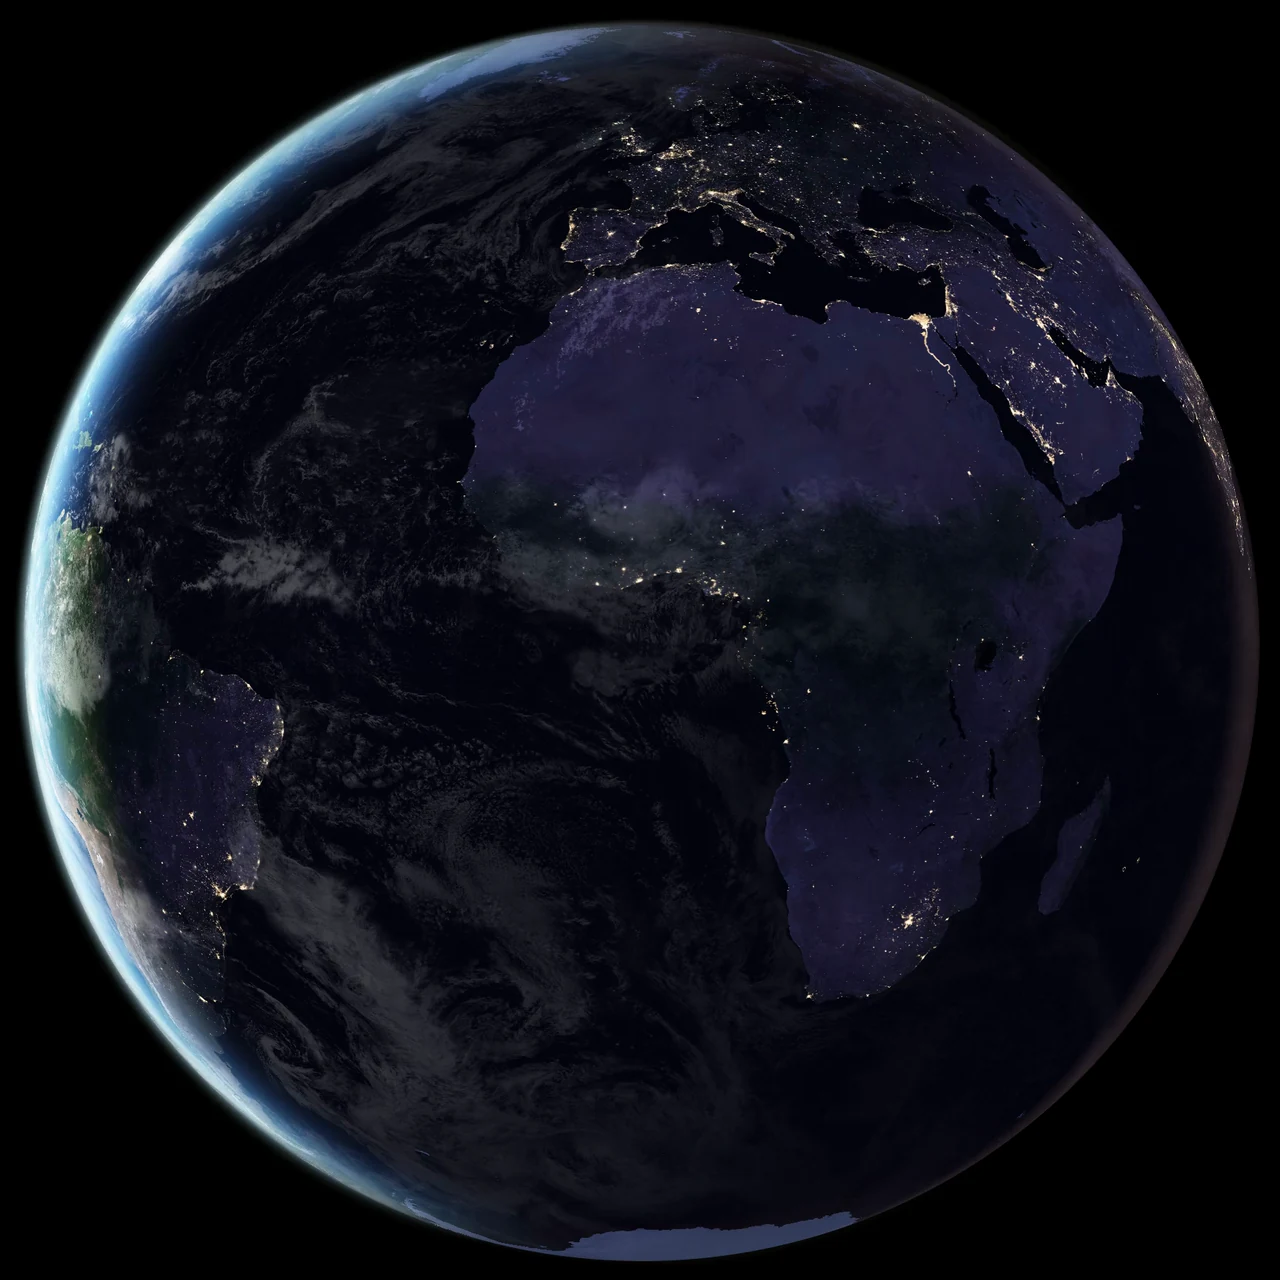
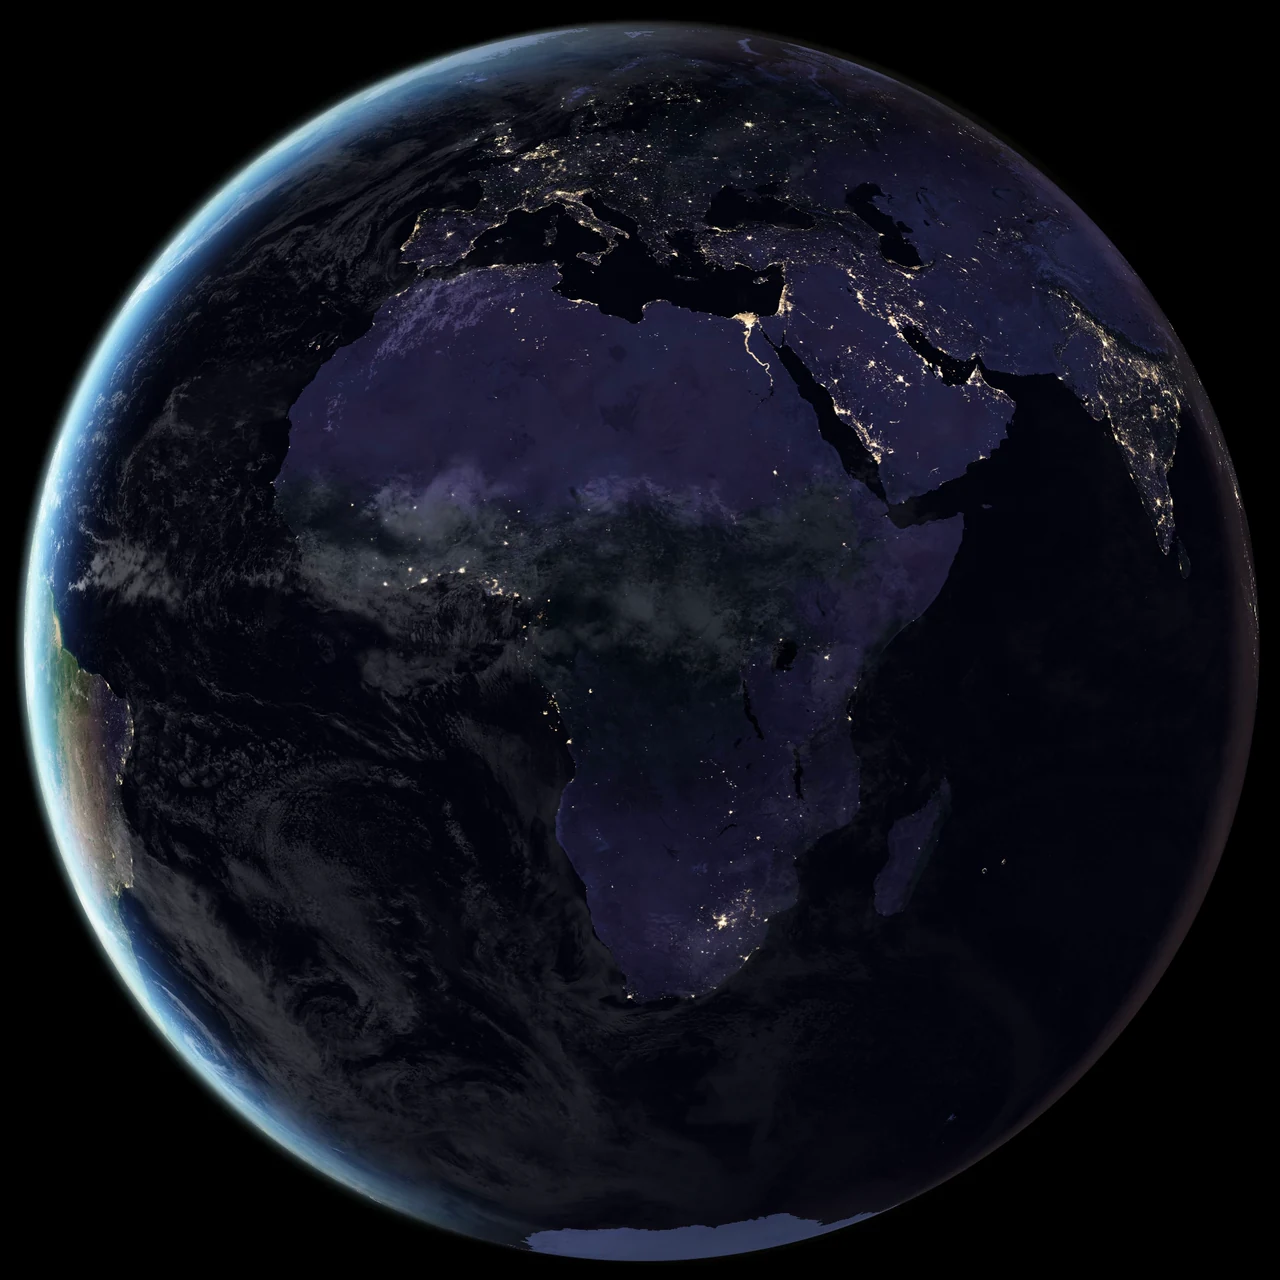
Земля-видео: старт над Украиной/Турцией (136 с ролика), новый постер

diff --git a/script.js b/script.js
@@ -149,9 +149,14 @@ function theme() {
   frame();
 })();
 
-/* ===== Видео Земли: пауза вне экрана и при «уменьшить анимацию» ===== */
+/* ===== Видео Земли: старт над Турцией/Украиной, пауза вне экрана и при «уменьшить анимацию» ===== */
 (function earthVideo() {
   const v = document.querySelector(".earth__video"); if (!v) return;
-  if (matchMedia("(prefers-reduced-motion: reduce)").matches) { v.removeAttribute("autoplay"); v.pause(); return; }
-  new IntersectionObserver(e => { e[0].isIntersecting ? v.play().catch(() => {}) : v.pause(); }).observe(document.querySelector(".hero"));
+  const START = 136;                       // секунда ролика, где в центре Чёрное море и огни Европы
+  if (matchMedia("(prefers-reduced-motion: reduce)").matches) return;   // остаётся постер
+  let inView = true;
+  const play = () => { if (inView) v.play().catch(() => {}); };
+  const begin = () => { v.currentTime = START; v.addEventListener("seeked", play, { once: true }); };
+  v.readyState >= 1 ? begin() : v.addEventListener("loadedmetadata", begin, { once: true });
+  new IntersectionObserver(e => { inView = e[0].isIntersecting; inView ? play() : v.pause(); }).observe(document.querySelector(".hero"));
 })();

diff --git a/index.html b/index.html
@@ -27,7 +27,7 @@
   <canvas id="stars" aria-hidden="true"></canvas>
   <div class="earth" aria-hidden="true">
     <div class="earth__glow"></div>
-    <video class="earth__video" autoplay muted loop playsinline preload="auto" disablepictureinpicture poster="assets/earth-poster.webp">
+    <video class="earth__video" muted loop playsinline preload="auto" disablepictureinpicture poster="assets/earth-poster.webp">
       <source src="assets/earth.webm" type="video/webm">
       <source src="assets/earth.mp4" type="video/mp4">
     </video>
